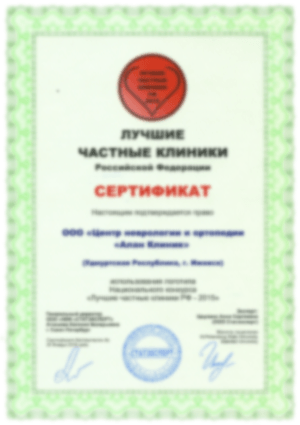
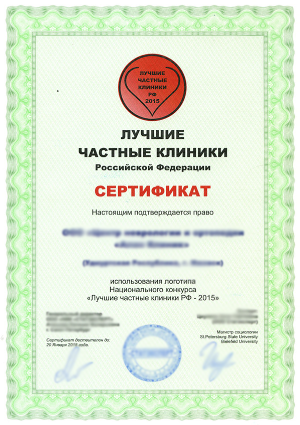
Верстка страницы "О клинике"

diff --git a/about.html b/about.html
@@ -75,9 +75,52 @@
         <div class="inner-heading">
           <h1>О клинике</h1>
         </div>
+        <section class="about">
+          <h2 class="visually-hidden">Информация о клинике «АльбертМед»</h2>
+          <p class="inner-section-description about-description">
+            <span class="about-description-span">Клиника «АльбертМед»</span> — медицинский центр широкого спектра амбулаторного оказания врачебных услуг. Наша клиника — лучшая в Верхоянске, и этим все сказано. Мы работаем с 2005 года, и за время работы успели получить множество наград и доказать, что не зря носим это гордое звание. У нас работают лучшие врачи-специалисты города, и мы платим им значительно больше, чем они получали бы в поликлинике.
+          </p>
+          <p class="inner-section-description about-description">
+            <span class="about-description-span">Главный врач клиники</span>: Кац Владимир Вадимович, врач-кардиолог с сорокапятилетним стажем, доктор медицинских наук, обладатель диплома «10000 лучших врачей России».
+          </p>
+          <p class="inner-section-description about-description">
+            <span class="about-description-span">Генеральный директор компании</span>: Лаптев Игорь Семенович, бизнесмен, меценат, филантоп, аристократ, космический турист и просто хороший человек.
+          </p>
+          <div class="row">
+            <div class="col-12 col-md-10 about-reception">
+              <img class="img-fluid" src="img/reception.png" alt="Ресепшн клиники" width="920" height="450">
+            </div>
+            <div class="col-12 col-md-2 about-certificates">
+              <img class="certificate-image" src="img/certificate-2.png" alt="Сертификат">
+              <img class="certificate-image" src="img/certificate-1.png" alt="Свидетельство о регистрации">
+            </div>
+          </div>
+          <div class="speciality-section">
+            <p class="speciality-description about-description-bold">
+              Мы работаем в следующих медицинских направлениях:
+            </p>
+            <ul class="speciality-unordered-list">
+              <li>Косметология, включая лазерную;</li>
+              <li>Физиотерапия, в первую очередь тепловая, звуковая, магнитная;</li>
+              <li>Гастроэнтерология;</li>
+              <li>Кардиология.</li>
+            </ul>
+            <p class="speciality-description about-description-bold">
+              С нами сотрудничают следующие страховые компании:
+            </p>
+            <ul class="speciality-unordered-list">
+              <li>Госстрах;</li>
+              <li>Госужас;</li>
+              <li>Госкошмар;</li>
+              <li>Госпаника.</li>
+            </ul>
+            <p class="speciality-description">
+              Также в скором времени планируется открытие собственной лаборатории, отделения психотерапии и получение лицензии на проведение медкомиссий (водительской, оружейной, для охранников и т.д.). Следите за новостями клиники «АльбертМед»!
+            </p>
+          </div>
+        </section>
       </div>
     </main>
-
     <footer>
       <section class="footer-navigation">
         <h2 class="visually-hidden">Навигация футера</h2>

diff --git a/css/style.css b/css/style.css
@@ -1607,3 +1607,39 @@ main {
 
   overflow: hidden;
 }
+
+.about {
+  margin-bottom: 20px;
+}
+
+.about-description-span {
+  font-weight: 700;
+  color: #105599;
+}
+
+.about-reception {
+  margin-bottom: 30px;
+}
+
+.about-certificates {
+  margin-bottom: 30px;
+  width: 100%;
+  display: flex;
+  justify-content: space-between;
+  flex-direction: column;
+}
+
+.certificate-image {
+  width: 100%;
+  height: auto;
+}
+
+@media (max-width: 767.98px) {
+  .about-certificates {
+    flex-direction: row;
+  }
+}
+
+.about-description-bold {
+  font-weight: 700;
+}
